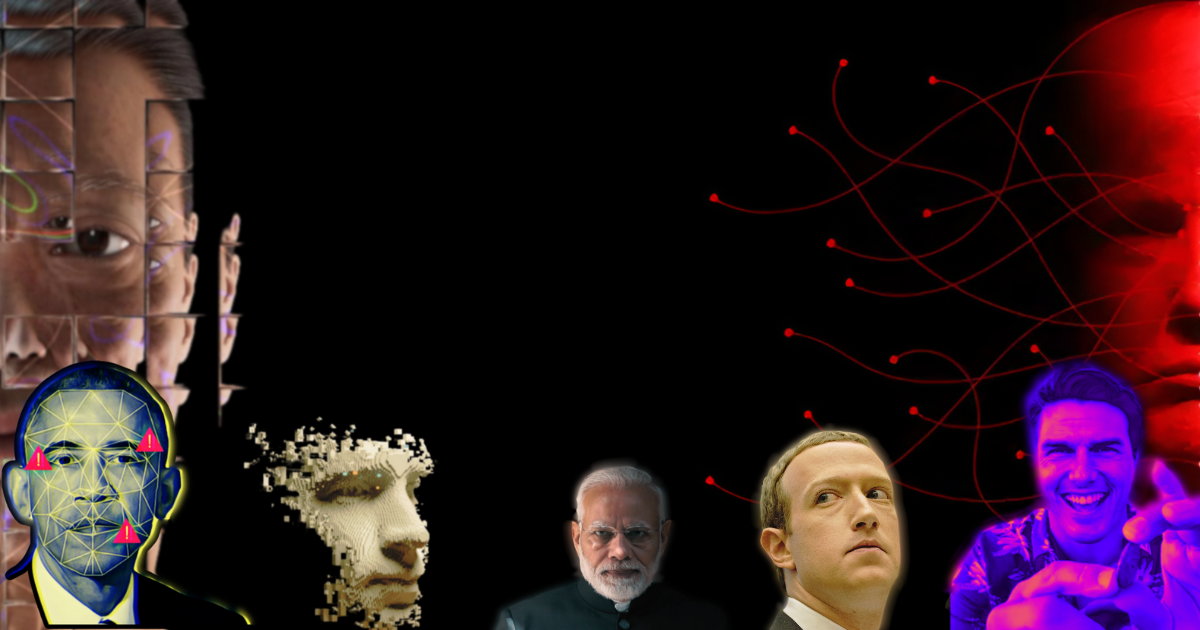
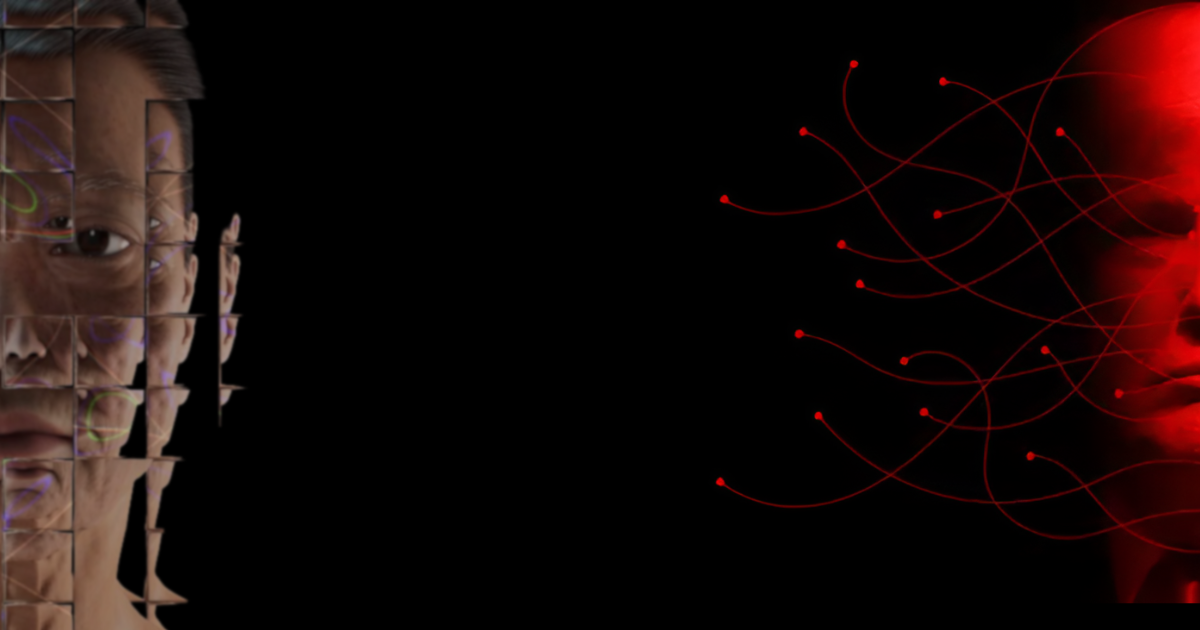
Update ReadMe, requirements, style: background images

diff --git a/README.md b/README.md
@@ -1,7 +1,29 @@
-#Deepfake Detection using Machine Learning
+# Deep fake detection Django Application
 
-We are creating a deepfake detector that will be able to identify wheather a video is deepfaked that is manipulated or not
-Git Hub Collaborators:
-1.Prabhat Potdar 
-2.Gaurav Verma
-3.Narendra Singh Rathore
+## Requirements:
+
+- CUDA version >= 10.0 for GPU
+- GPU Compute Capability > 3.0 
+
+
+- Required modules are listed in the requirements.txt
+```
+Python >= v3.6
+Django >= v3.0
+```
+
+# How to run the application on local machine
+
+#### step 1: Download and Install Cuda version 12.1 (most compatible)
+
+download link: https://developer.nvidia.com/cuda-12-1-0-download-archive
+
+#### Step 2: Install requirements.txt 
+
+### Step 3: open folder Deep_fake_Django & start the server
+
+`python manage.py runserver`
+
+### step 4: Go to localhost 127.0.0:8000 
+
+### step 5: Upload the video to be tested and select the bar to 40 frames. (Test videos are listed in folder - Test_Videos)
